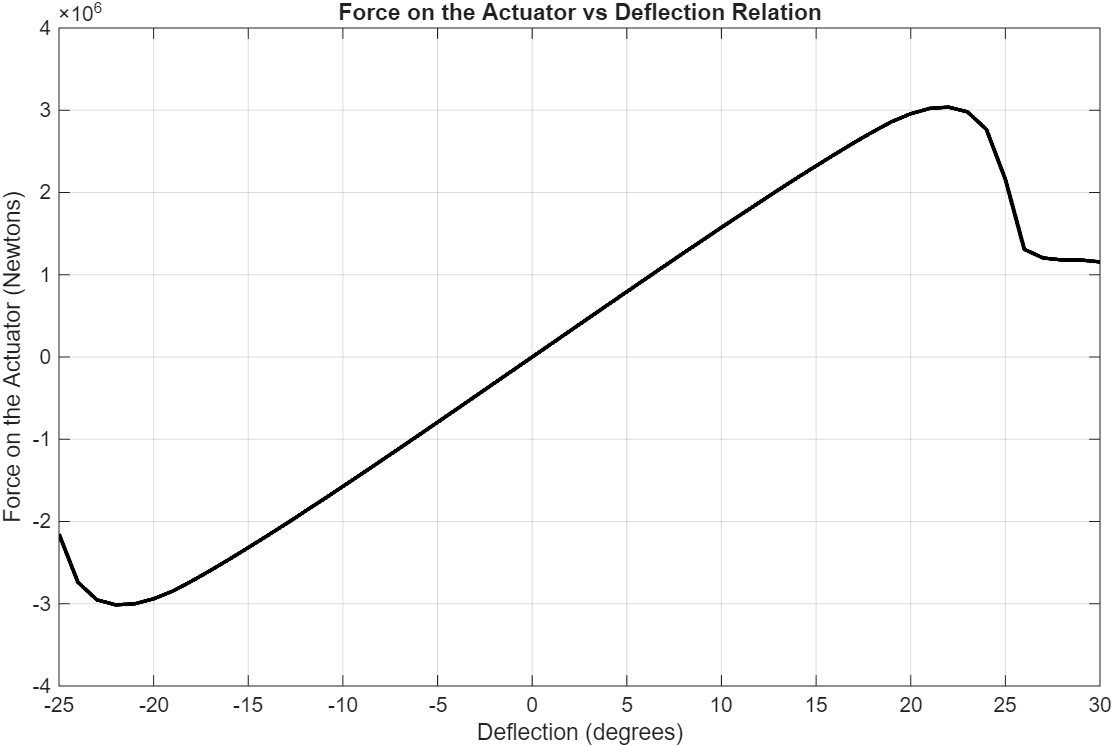
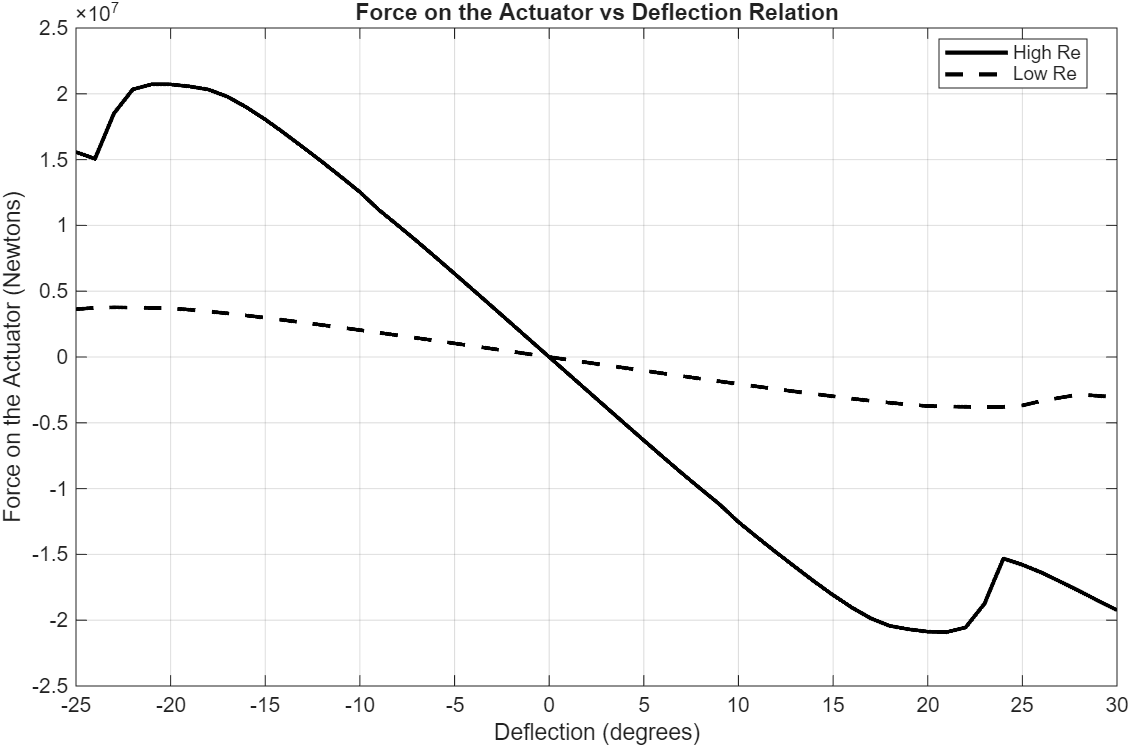
Updated plotting for 2 extreme cases

diff --git a/Code_files/plot_data.m b/Code_files/plot_data.m
@@ -20,10 +20,13 @@ exportgraphics(gcf, save_path);
 
 % 2.1 Plotting
 figure('Name', 'Force on the Actuator vs Deflection Relation')
-plot(deflection, F_act, 'black', LineWidth=2);
+plot(deflection, F_act(1, :), 'black', LineStyle = '-', LineWidth=2);
+hold on
+plot(deflection, F_act(2, :), 'black', LineStyle = '--', LineWidth=2);
 ylabel('Force on the Actuator (Newtons)');
 xlabel('Deflection (degrees)');
 xlim([min(deflection) max(deflection)])
+legend('High Re', 'Low Re', Location='best')
 title('Force on the Actuator vs Deflection Relation');
 grid on;
 
@@ -36,18 +39,19 @@ exportgraphics(gcf, save_path);
 % 3.1 Plotting
 figure('Name', 'Aerodynamic Coefficients')
 yyaxis left
-plot(deflection, CL(1), 'black', LineStyle="-", LineWidth=2);
-plot(deflection, CL(2), 'black', LineStyle="--", LineWidth=2);
-ylabel('C_L');
+plot(deflection, CL(1, :), 'black', LineStyle="-", LineWidth=2);
 hold on
+plot(deflection, CL(2, :), 'black', LineStyle="--", LineWidth=2);
+ylabel('C_L');
 yyaxis right
-plot(deflection, CD, LineStyle="-", LineWidth=2);
-plot(deflection, CD, LineStyle="--", LineWidth=2);
-plot(deflection, CM, 'red', LineStyle="-", LineWidth=2);
+plot(deflection, CD(1, :), LineStyle="-", Color=[1, 0.5, 0], LineWidth=2);
+plot(deflection, CD(2, :), LineStyle="--", Color=[1, 0.5, 0], LineWidth=2);
+plot(deflection, CM(1, :), 'red', LineStyle="-", LineWidth=2);
+plot(deflection, CM(2, :), 'red', LineStyle="--", LineWidth=2);
 ylabel('C_D and C_M');
 xlabel('Deflection (degrees)');
 xlim([min(deflection) max(deflection)])
-legend('CL', 'CD', 'CM')
+legend('CL high Re', 'CL low Re', 'CD high Re', 'CD low Re','CM high Re', 'CM low Re', Location='northwest')
 title('Aerodynamic Coefficients vs Deflection Relation');
 grid on;
 

diff --git a/Report/Report.tex b/Report/Report.tex
@@ -70,16 +70,16 @@
 	\section{Introduction}
 		The F-22 Raptor uses all-moving horizontal tailplanes, also known as stabilators, to manage longitudinal stability and control. 
 		
-	    This report presents a mathematical model of the F-22 Raptor horizontal tail stabilator using MATLAB and Simulink. The modelling process begins with defining the system geometry.
+	    This report presents a mathematical model of the F-22 Raptor horizontal tail stabilator using MATLAB and Simulink. The modeling process begins with defining the system geometry.
 	
 	\section{Geometry}
 	
-	Initially, it is necessary to establish geomoetry of the considered plane - Lockheed Martin–Boeing F-22 Raptor and its stabilator.
+	Initially, it is necessary to establish geometry of the considered plane - Lockheed Martin–Boeing F-22 Raptor and its stabilator.
 	
 	\subsection{Plane general description and geometrical parameters}
 	
 	The F-22 Raptor is the world's first operational  fifth generation fighter jet built by Lockheed Martin. Since its initial flight in 1997 and entry to service in 2005, it has maintained air superiority by integrating stealth, supercruise, and advanced sensor suites.
-	The aircraft features an open system architecture that allows for continuous digital moderization. Mentioned features combined with high perfomance engines and integrated flight controls allows the Raptor to dominate contested airspace. 
+	The aircraft features an open system architecture that allows for continuous digital modernization. Mentioned features combined with high performance engines and integrated flight controls allows the Raptor to dominate contested airspace. 
 	
 	\begin{table}[h!]
 		\centering

diff --git a/Code_files/Relation.m b/Code_files/Relation.m
@@ -1,7 +1,9 @@
-%% If you need images change do_plot to 1
+%% If you need images change plotting vars to 1
 
-do_plot = 0; % change this
-should_plot = (do_plot == 1) && ~exist("Running_in_Simulink", 'var');
+draw_stabilator = 0;
+plot_data_ = 1;
+draw_stabilator = (draw_stabilator == 1) && ~exist("Running_in_Simulink", 'var');
+should_plot_data = (plot_data_ == 1) && ~exist("Running_in_Simulink", 'var');
 
 %% 1. Providing the required data
 
@@ -29,7 +31,7 @@ extension = sqrt(a^2 + r^2 - 2.*a.*r.*cos(deg2rad(alpha-deflection))) - d;
 stab_area = 6.315; % m2 
 pivot_axis_pos = 1.982; % m from root chord LE
 
-[MAC, rho_alt, rho_SL, V_alt, V_SL, Re_Alt, Re_SL, ~, ~, MAC_offset] = Re_calculations(should_plot);
+[MAC, rho_alt, rho_SL, V_alt, V_SL, Re_Alt, Re_SL, ~, ~, MAC_offset] = Re_calculations(draw_stabilator);
 arm = MAC_offset-MAC*0.25-pivot_axis_pos; % m 
 density = [rho_SL; rho_alt]; % kg/m3
 velocity = [V_SL; V_alt]; % m/s
@@ -62,6 +64,6 @@ triangle_area = sqrt(semi_P.*(semi_P-d-extension).*(semi_P-a).*(semi_P-r));
 lever_arm_actuator = 2 .* triangle_area ./ (d+extension); 
 F_act = M_pivot ./ lever_arm_actuator; % [N]
 
-if should_plot
+if should_plot_data
     plot_data(deflection, extension, F_act, CL, CD, Cm)
 end
